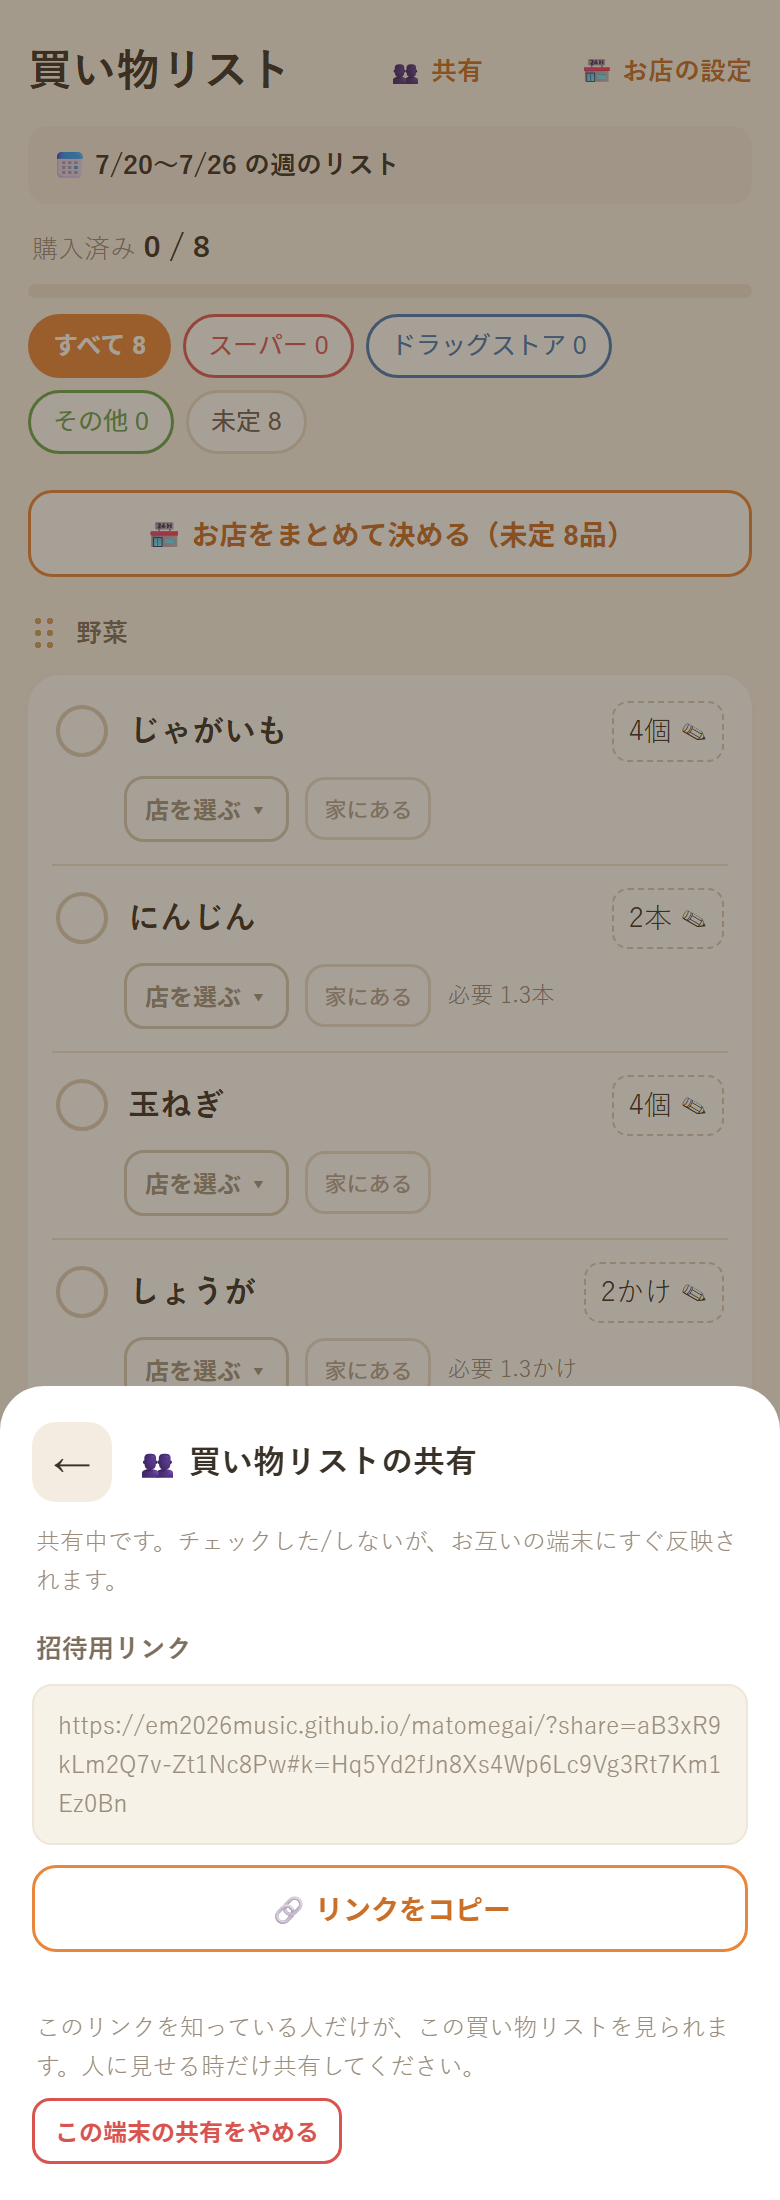
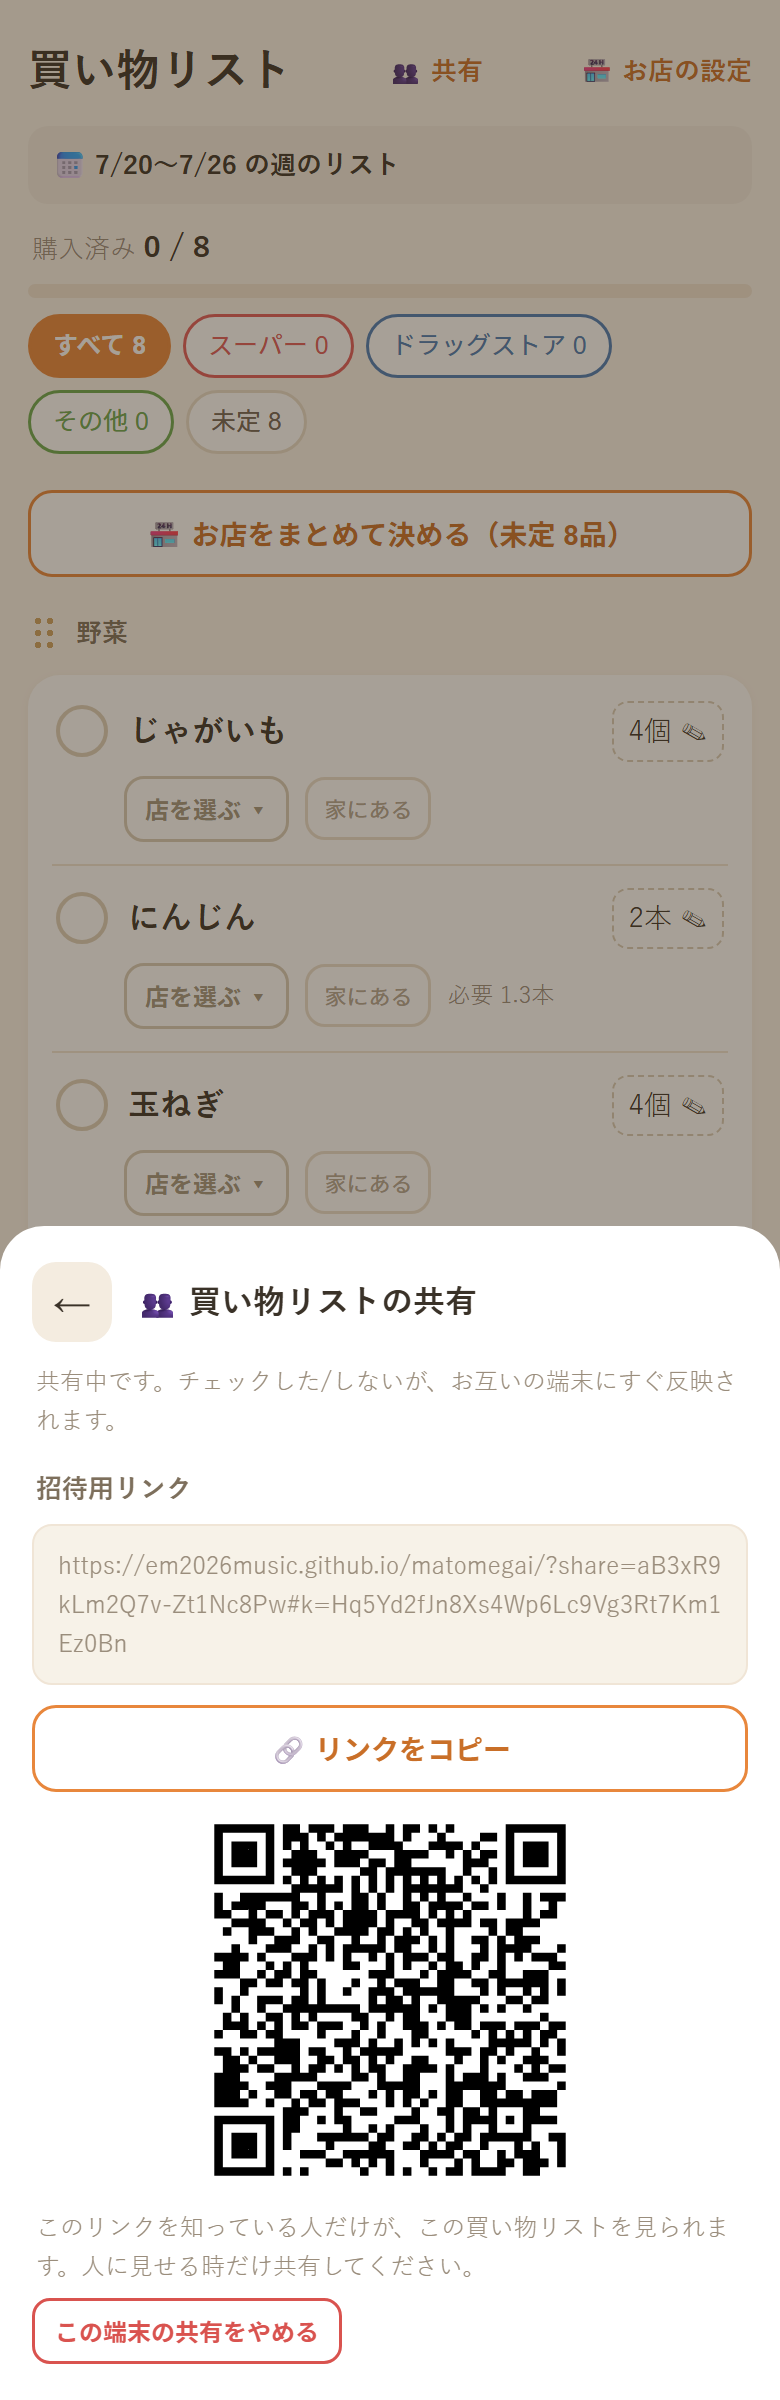
両ガイドに買い物リストの共有機能を追記
- start.html / guide.html に新セクション「家族とリアルタイムで共有」
- 招待リンク・QRコード・暗号化の説明。実画面のスクショつき
- FAQに「共有の中身は運営者に見られるか」を追加
- g14-sharing.png をQR表示修正後の見た目に差し替え（前回コミット時は未反映だった）

diff --git a/start.html b/start.html
@@ -239,6 +239,7 @@ footer{text-align:center;padding:34px 0;color:var(--sub);font-size:12.5px;font-w
       <a href="#steps">つかいかた</a>
       <a href="#level">便利ワザ</a>
       <a href="#shop">お店わけ</a>
+      <a href="#share">共有</a>
       <a href="#week">履歴</a>
       <a href="#faq">よくある質問</a>
     </nav>
@@ -505,6 +506,28 @@ footer{text-align:center;padding:34px 0;color:var(--sub);font-size:12.5px;font-w
   </div>
 </section>
 
+<!-- ============ 家族と共有 ============ -->
+<section id="share" style="padding-top:0">
+  <div class="wrap">
+    <div class="two reveal">
+      <div>
+        <span class="eyebrow e-p">NEW ・ 家族と使う</span>
+        <h3 style="font-size:clamp(19px,2.7vw,25px);font-weight:900;line-height:1.4">買い物リストを、<br>家族とリアルタイムで共有</h3>
+        <p style="color:var(--sub);margin-top:12px;font-size:15px;font-weight:500">片方が「牛乳を買った」とチェックすると、もう片方の画面にも数秒で反映されます。登録もログインも不要。相手に招待リンクかQRコードを見せるだけです。</p>
+        <ol class="ol">
+          <li>買い物リスト右上の「<b>👥 共有</b>」を開く</li>
+          <li>「🔗 共有を始める」→ 招待リンクとQRコードが出る</li>
+          <li>相手に送る・見せる → 開けば参加完了</li>
+        </ol>
+        <div class="tip"><b>中身は暗号化されています。</b> 品物の名前はこの端末で暗号化してから送るので、運営者にも読めません。共有するのは今の買い物リストだけで、献立や自作レシピ、これまでの履歴は一切送られません。</div>
+      </div>
+      <div class="shot" style="background:linear-gradient(150deg,#F5F1FF,#E7DEFF)">
+        <div class="scr"><img src="assets/g14-sharing.png" alt="買い物リストの共有画面。招待リンクとQRコードが表示されている"></div>
+      </div>
+    </div>
+  </div>
+</section>
+
 <!-- ============ 逆引き ============ -->
 <section style="background:linear-gradient(180deg,#FFF7F0,#fff)">
   <div class="wrap">
@@ -543,7 +566,8 @@ footer{text-align:center;padding:34px 0;color:var(--sub);font-size:12.5px;font-w
       <details><summary>買い物の途中でアプリを閉じても大丈夫？</summary><p>大丈夫です。チェックした物・選んでいたお店のタブ・売り場の並び順は、すべて保存されています。次に開いたときは続きから使えます。</p></details>
       <details><summary>料理を間違えて追加しました</summary><p>料理を選ぶ画面の「−」で1つずつ減らせます。その日を丸ごと消すなら、日付をタップして右上の「🗑 この日を空に」。ホームで日付を長押ししても同じです。</p></details>
       <details><summary>材料や分量を変えても大丈夫ですか？</summary><p>大丈夫です。むしろ変えて使うものだと思ってください。「🍲 料理」タブで料理をタップ → 材料・数量・単位を書き換えて「保存」。この端末の中だけで直るので、元に戻したくなったら⚙設定の「すべて初期化」で最初の状態に戻せます（ただし作った料理も消えます）。</p></details>
-      <details><summary>スマホとパソコンでデータは共有されますか？</summary><p>共有されません。端末ごとに別々です。移したいときは「⚙設定 → バックアップ保存」でファイルを保存し、移動先で「読み込み」してください。</p></details>
+      <details><summary>スマホとパソコンでデータは共有されますか？</summary><p>自動では共有されません。端末ごとに別々です。移したいときは「⚙設定 → バックアップ保存」でファイルを保存し、移動先で「読み込み」してください。買い物リストだけをリアルタイムで共有したい場合は、上の「👥 共有」機能をお使いください。</p></details>
+      <details><summary>共有した中身は運営者に見られますか？</summary><p>見られません。品物の名前などは、あなたの端末で暗号化してから送っています。サーバーに保存されるのは意味の分からない暗号文だけです。招待リンクを知っている人だけが、その場で復号して読めます。</p></details>
       <details><summary>機種変更するとデータは消えますか？</summary><p>消えます。事前に「⚙設定 → バックアップ保存」でファイルを保存し、新しい端末で読み込んでください。</p></details>
       <details><summary>画面が古いまま更新されません</summary><p>ホーム画面をいちばん下まで送ると「🔄 アプリを最新に更新する」があります。押しても献立や買い物のデータは消えません。</p></details>
     </div>

diff --git a/guide.html b/guide.html
@@ -329,6 +329,23 @@ details p{padding:0 34px 18px 0;color:var(--muted);font-size:14px}
   </div>
 </section>
 
+<section class="optional" id="share">
+  <div class="wrap optional-card">
+    <div class="optional-image"><div class="screen" data-full="assets/g14-sharing.png"><img src="assets/g14-sharing.png" alt="買い物リストの共有画面。招待リンクとQRコードが表示されている"></div></div>
+    <div>
+      <p class="eyebrow">NEW・家族と使う</p>
+      <h2>買い物リストを、家族とリアルタイムで共有</h2>
+      <p>片方が「牛乳を買った」とチェックすると、もう片方の画面にも数秒で反映されます。登録もログインも不要。相手に招待リンクかQRコードを見せるだけです。</p>
+      <ol class="mini-steps">
+        <li>買い物リスト右上の「<strong>👥 共有</strong>」を開く</li>
+        <li>「🔗 共有を始める」→ 招待リンクとQRコードが出る</li>
+        <li>相手に送る・見せる → 開けば参加完了</li>
+      </ol>
+      <div class="tip"><strong>中身は暗号化されています。</strong>品物の名前はこの端末で暗号化してから送るので、運営者にも読めません。共有するのは今の買い物リストだけで、献立や自作レシピ、これまでの履歴は一切送られません。</div>
+    </div>
+  </div>
+</section>
+
 <section class="section" id="useful">
   <div class="wrap">
     <div class="section-head">
@@ -363,7 +380,8 @@ details p{padding:0 34px 18px 0;color:var(--muted);font-size:14px}
       <details><summary>先週と同じ物をもう一度買いたい</summary><p>「🕘 買い物の履歴」を開き、使いたい回をタップ →「📋 この内容で新しいリストを作る」。その買い物がそのまま復活します。</p></details>
       <details><summary>買い物の途中でアプリを閉じても大丈夫？</summary><p>大丈夫です。チェックした物・選んでいたお店のタブ・売り場の並び順は、すべて保存されています。次に開いたときは続きから使えます。</p></details>
     <details><summary>数量が「必要 1.3本」と違うのはなぜ？</summary><p>お店では1.3本は買えないので、買える数に切り上げて表示しています。上の大きい数字が<strong>買う数</strong>、グレーの「必要◯」が献立で実際に使う量です。数字をタップすれば自分で直せます。</p></details>
-    <details><summary>スマホとパソコンでデータは共有されますか？</summary><p>共有されません（端末ごとに別々です）。移したいときは「⚙設定 → バックアップ保存」でファイルを保存し、もう一方の端末で「読み込み」してください。</p></details>
+    <details><summary>スマホとパソコンでデータは共有されますか？</summary><p>自動では共有されません（端末ごとに別々です）。移したいときは「⚙設定 → バックアップ保存」でファイルを保存し、もう一方の端末で「読み込み」してください。買い物リストだけをリアルタイムで共有したい場合は、「👥 共有」機能をお使いください。</p></details>
+    <details><summary>共有した中身は運営者に見られますか？</summary><p>見られません。品物の名前などは、あなたの端末で暗号化してから送っています。サーバーに保存されるのは意味の分からない暗号文だけです。招待リンクを知っている人だけが、その場で復号して読めます。</p></details>
     <details><summary>機種変更するとデータは消えますか？</summary><p>そのままでは移りません。古い端末で「⚙設定 → バックアップ保存」を行い、新しい端末で読み込んでください。</p></details>
     <details><summary>画面が古いまま更新されません</summary><p>「⚙設定 →🔄 アプリを最新に更新する」を押してください。保存したデータは消えません。</p></details>
   </div>
